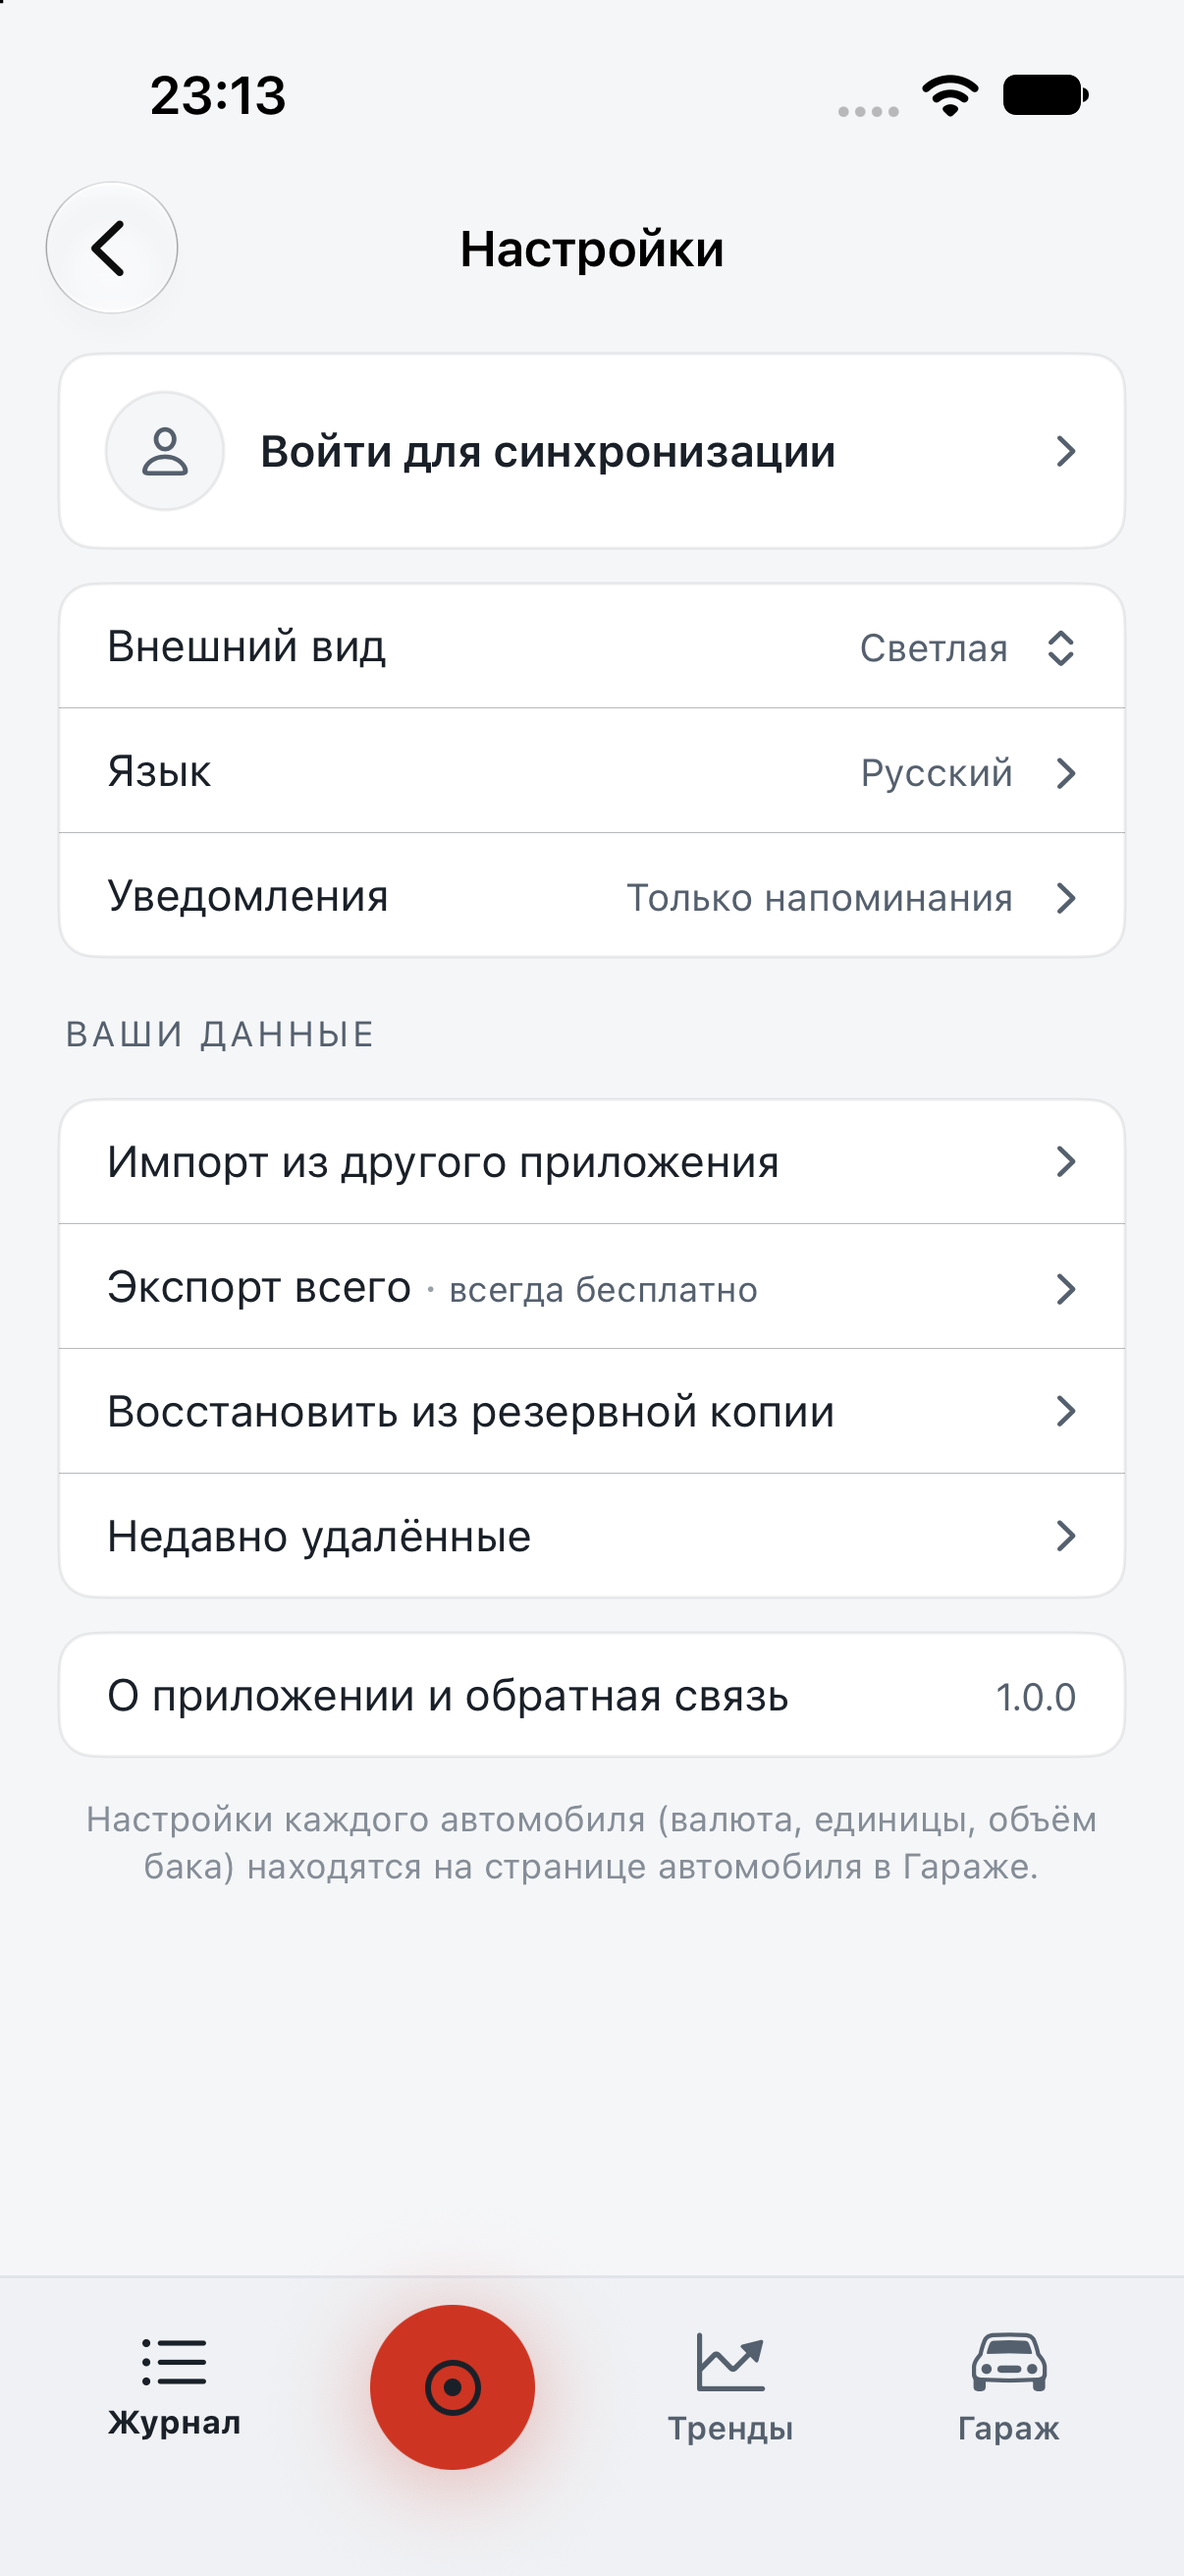
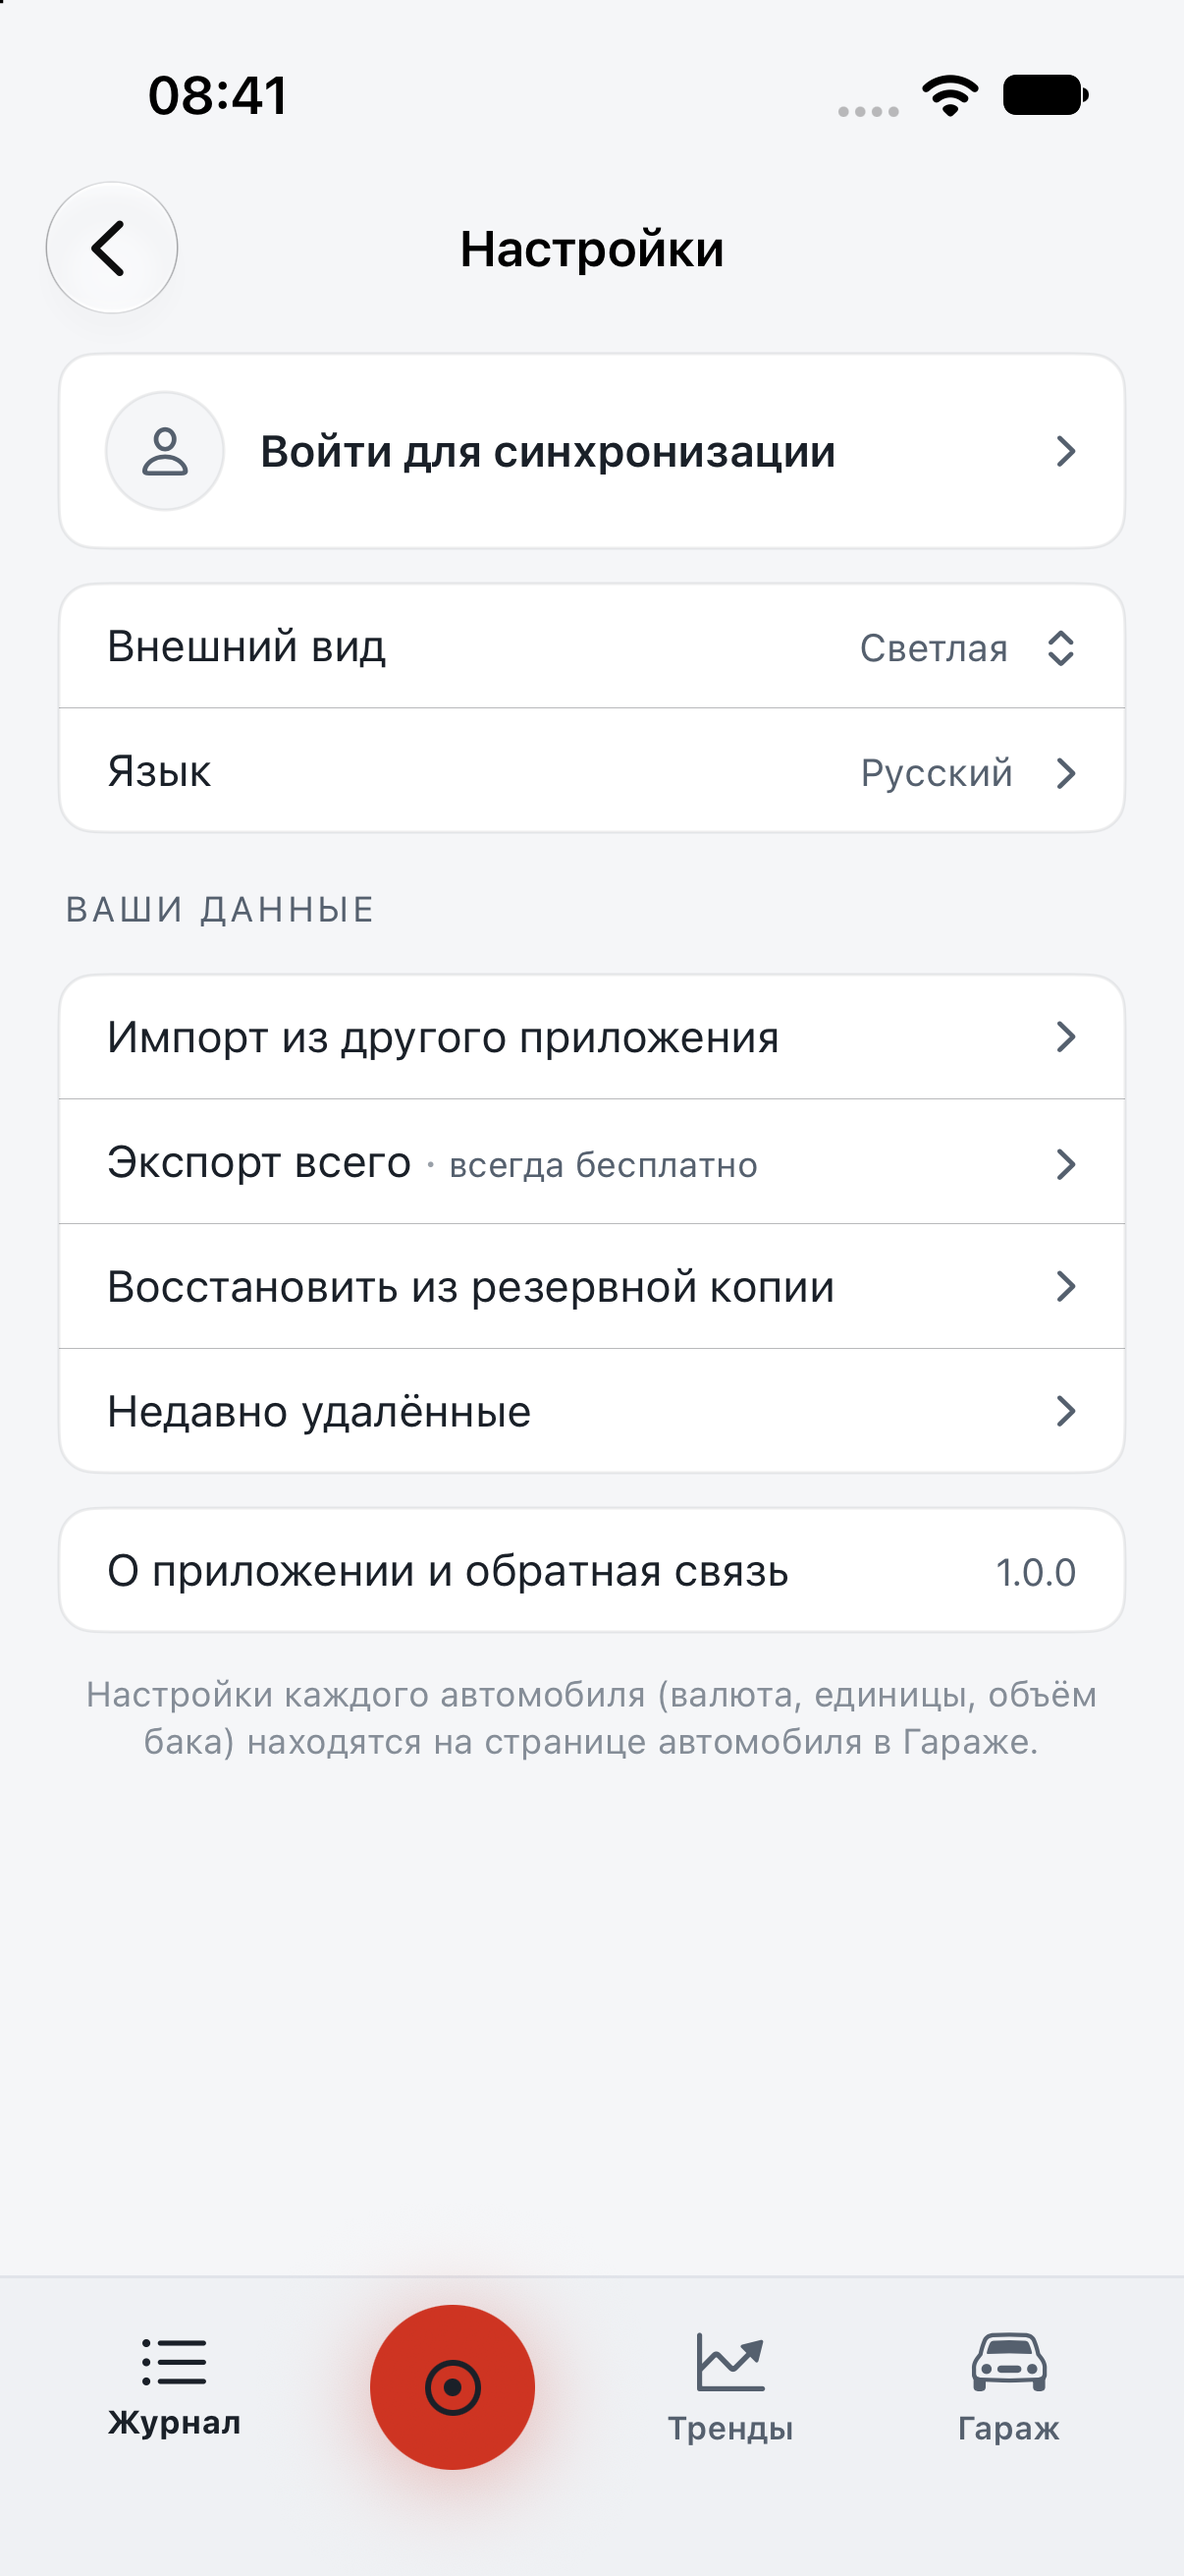
RV.317: the Notifications row is hidden until there are notification settings to open
Product owner, 2026-09-27: "Notifications currently are not implemented, so
worth to hide it". The row said "Reminders only" with a chevron and opened
nothing. The row, its divider and valueRow (its only caller) are removed, so
Settings shows Appearance and Language. DESIGN.md's Settings list says it is
hidden until then.

SettingsUITests 27/27, lint 0; the Settings screenshots re-shot (P4.9b,
RV.70, RV.316) and opened.

diff --git a/ios/App/Sources/Settings/SettingsView.swift b/ios/App/Sources/Settings/SettingsView.swift
@@ -263,15 +263,13 @@ struct SettingsView: View {
         }
     }
 
-    // MARK: - Appearance / Language / Notifications
+    // MARK: - Appearance / Language
 
     private var preferencesCard: some View {
         VStack(spacing: 0) {
             AppearanceRow(selection: $appearance)
             CardDivider()
             languageRow
-            CardDivider()
-            valueRow("Notifications", value: "Reminders only", identifier: "settingsNotificationsRow")
         }
         .formCard()
     }
@@ -293,26 +291,6 @@ struct SettingsView: View {
             return LanguageDisplay.name(code)
         }
         return LanguageDisplay.name(LanguageDisplay.currentCode)
-    }
-
-    /// A static value row (its destination screen is another task). The value
-    /// is drawn like the artboard: inkSoft with a trailing chevron.
-    private func valueRow(_ label: LocalizedStringKey, value: LocalizedStringKey,
-                          identifier: String) -> some View {
-        HStack(alignment: .firstTextBaseline, spacing: 12) {
-            Text(label)
-                .font(.subheadline)
-                .foregroundStyle(Theme.Palette.ink)
-            Spacer(minLength: 8)
-            Text(value)
-                .font(.footnote)
-                .foregroundStyle(Theme.Palette.inkSoft)
-            chevron
-        }
-        .padding(.horizontal, 16)
-        .padding(.vertical, 12)
-        .accessibilityElement(children: .combine)
-        .accessibilityIdentifier(identifier)
     }
 
     // MARK: - Your data

diff --git a/docs/TASKS-DONE.md b/docs/TASKS-DONE.md
@@ -693,6 +693,7 @@ hardware. `RV.1`-`RV.5`, `RV.7`-`RV.9` and `RV.11`-`RV.16` are fixed; `RV.10`, `
 | **[x]** RV.289 | (J4 pump display through the cloud; F2) **The `pump` kind shares the receipt prompt and the model misreads a seven-segment display.** Same photograph as [RV.288]: `LlmPrompts.Document("pump")` names *"a fuel pump display"* and `AllowedFields` hands it the receipt vocabulary (`backend/src/Tankbook.Api/Llm/LlmPrompts.cs:62-84`) and nothing else - no layout hint, so **0025,60** (litres, second line) came back as 0.56 and **0050,02** (amount, top line) as 0.00. The ledger row for this call holds the exact response (`llm_calls`, direct DB read - the ledger has no endpoint by design) - **owner: paste it into this row** before a brief is written. **Evidence found 2026-09-19 (RV.290's check): the app never sends `kind: "pump"`** - the fill-up capture's one `/extract` call site sends `kind: "receipt"` (`ManualFillUpView.swift:450`; the pipeline processes every fill-up as `.receipt`, the pump mode ships off), so the pump prompt this row describes was not the prompt that read the owner's display: the model was told it was reading a fuel receipt. Read the ledger row's request `kind` first; if it says `receipt`, the fix starts at the capture (a dispenser photo must be sent as what it is), not at the prompt. A pump display is a different document from a receipt: leading zeros, comma decimals, the amount ABOVE the volume on most European dispensers, the unit price on its own small display, no station name and no date | **Decide-then-do**: (1) read the ledger response - if the model returned the right digits and the client decoded them wrong, this is a core defect and [RV.288]'s file; (2) otherwise a pump-specific prompt in `LlmPrompts`: name the three displays, their order, the leading zeros and the comma, and tell the model to return `null` for a field it cannot read rather than a guess; (3) the corpus already holds nine Circle K displays (registered 2026-09-13/14) - register this photograph as a tenth with its three asserted cells, and add an **on-demand L5 sweep of the corpus's pump images through the live provider** (the OCR corpus has one, `EXTRACTION.md`; the gateway has none), so the prompt change is measured, not felt. No PII in the photo (a dispenser, kiwa seals, a QR) | L2 `LlmPromptsTests`: the `pump` prompt names the display layout and the null rule; the corpus row-count pin updated; the L5 sweep script exists, is documented in `TESTING.md`, and its first run's hit count is recorded as the ratchet's floor. **Vacuous trap**: testing the prompt string contains the word "pump" || **Done 2026-09-27 (the prompt).** `LlmPrompts.PumpInstruction` names the three numbers and where they sit, the leading-zero padding and the comma decimal, keeps grade price boards out of the price, and forbids deriving a number. The pump kind asks only for `total, volume, unitPrice, currency`. `LlmPromptsTests.PumpPromptNamesTheDisplayLayoutAndAsksForNoReceiptFields`; backend build, format and tests 0. API.md carries the compatible verdict against build 1368. The live-provider sweep and the ledger read need the gateway key and are RV.315. |
 | **[x]** RV.313 | (F1 "Send this scan" report stage; F2 report stage; AD.11) **A diagnostics send dies when the app leaves the foreground, with nothing to say so.** Found 2026-09-27 in case 6JFJ1-4JRYX's log: two `POST /v1/cases` uploads (10.3 MB and 7.1 MB) were in flight when the app went inactive and background. Neither ever got a response line, and the tester sent again. A 7-13 MB case over mobile takes 15-30 s, long enough for a user to switch apps. **What to build**: run the upload in a background `URLSession` upload task, or at least inside `beginBackgroundTask`, so it survives backgrounding. If the upload is cut anyway, the send screen says so on return and offers to resend (hard rule 7), rather than leaving an id-less limbo. RV.312 makes the cut visible in the log. **Routing:** the orchestrator. | An app-target test with a transport that suspends mid-upload: the send reports the failure and offers a retry; on a device, a send survives pressing Home (the tester's check, recorded here) || **Done 2026-09-27.** `DiagnosticsCaseModel.submit` runs the upload on iOS's background grace (`BackgroundGrace`, production `UIKitBackgroundGrace` with `background.task.expired` logged). When the grace runs out, the upload is cancelled and the sheet shows `DebugCaseError.interrupted`: "The send stopped when the app left the screen – send again." (RU included, ERRORS.md row). `DiagnosticsCaseSendTests` (2); **mutation:** dropping the interrupted mapping turns the first red. The app test target now compiles `EXPERIMENTS` in Debug; before, the file compiled to zero tests. Screenshots `RV.313-send-diagnostics-interrupted{,-ru}.png`. |
 | **[x]** RV.316 | no-scenario: a Settings control that did nothing **The Appearance row showed "Dark" with a chevron and was not a control.** Reported by the product owner 2026-09-27: *"I can't switch a theme in the settings app. The control is not actionable"*. The row was `valueRow("Appearance", value: "Dark")`, a placeholder whose destination was "another task" never filed. It also claimed Dark while the app followed the system. | **Done 2026-09-27.** `AppearancePreference` (system / dark / light, `@AppStorage("tankbook.appearance")`, default system) and `AppearanceRow`, a menu on the row. The choice is applied by `.preferredColorScheme` in `AppRootView.body`, not on the `App`: a first version put it on the `App`, where a change re-evaluated the scene, rebuilt `AppRootView`, and ran `AppRates.configure` twice, an assertion crash the UI test caught. `SettingsUITests.testAppearanceRowChangesTheThemeAndRemembersIt` (the menu opens, the choice shows, it survives a relaunch). New strings "Light" / "Светлая" and "Match the system" / "Как в системе". Screenshots `RV.316-settings-appearance-light{,-ru}.png`. **Also fixed:** the Settings UI suite had one deterministic red, `testRejectedRendersRussianCountAndNextStep`, since RV.284. The Russian hint dropped the object ("отредактируйте, чтобы повторить"), where the English says "edit them" and the test expects "отредактируйте их". The catalog is corrected and `RV.284-settings-rejected-ru.png` re-shot; SettingsUITests 27/27. **Not fixed, flagged:** the Notifications row below it is the same kind of placeholder ("Reminders only" with a chevron and no action). |
+| **[x]** RV.317 | no-scenario: a Settings row that opened nothing **The Notifications row said "Reminders only" with a chevron and did nothing.** Flagged under RV.316. Product owner, 2026-09-27: *"Notifications currently are not implemented, so worth to hide it"*. | **Done 2026-09-27.** The row, its divider and `valueRow` (the only caller) are removed from `SettingsView`; Settings shows Appearance and Language. A Notifications row comes back with notification settings to open, as a real control. DESIGN.md's Settings list says it is hidden until then. SettingsUITests and the Settings screenshots re-run. |
 
 ## OB · Observability **[v1.0.x]** - the device can say what it did
 

diff --git a/docs/DESIGN.md b/docs/DESIGN.md
@@ -200,7 +200,7 @@ All three degrade to crossfades under Reduce Motion.
 - **Trends (chosen: tile grid)** is four sparkline stat tiles (consumption, cost/km, monthly spend, price/L), the household EV-vs-petrol comparison card, and insight cards below. Charts follow the same palette; no chart junk, thin `inkSoft` grid, `taillight`/`headlight` series only.
   - **A rate-pending month is a GAP in the spend and cost/km charts (RV.112, decided 2026-09-08).** A month whose rows are still waiting on a rate has no exact total, so the monthly series plot a point ONLY for a `.complete` month - a `.partial` month is not drawn at its known-so-far sum and a `.pending` month is not drawn at zero, because both read as "spend fell", which is a chart that lies (hard rule 2). A month whose known figures span home currencies (`.mixed`, RV.145) is a hole for the same reason - no single value exists to plot. Each unstateable month occupies a slot that renders as a HOLE: the line chart breaks its path there (it never bridges the gap with a straight line) and the bar chart leaves the slot empty without shifting its neighbours. A gap reads as "unknown", which is the truth; the F9 footnote carries the pending phrase. A tile whose current-month figure is `.pending` prints no number at all - it is omitted like any other data-hungry vital, never a `0 €`.
   - **The F9a timeline-neighbourhood chart (RV.117b, [v1.1], decided 2026-09-09).** The card under Edit entry's odometer conflict plots the entry's odometer-bearing neighbours with the offending point off the trend through the valid ones (the Drivvo presentation, `docs/COMPETITORS.md`). Rules, all shared with the sparkline: **no chart junk** (a thin `inkSoft` baseline and two quiet third-rules only), **x is the entries' real dates** (proportional spacing - never invented equal slots), y their readings, **amber is attention** - the offending point is `warn`, the neighbours quiet `inkSoft` context (this is not a taillight/headlight series, so the series-colour rule does not apply here). **Colour is never the only channel** (accessibility floor): the offending point is a larger `warn` diamond with an ink stroke while neighbours are small ink circles, and every point is its own accessibility element ("This entry" vs "Neighbouring entry", each with its reading and day as the value). The card's figures are **DIN with tabular alignment** (hard rule 6); the interval sentences beneath are SF copy - numbers inside a full localised sentence are copy, the same precedent as the F9a quote. The whole card renders only while the entry flags and has a `validRange`; a clean entry or one without an odometer shows no panel and no empty box.
-- **Settings** opens from the gear in the tab-root header on each of the three tab roots (Log, Trends, Garage – never a fifth tab; the tab bar stays task-focused): account/sync status, appearance (a menu: **Match the system** - the default - **Dark** or **Light**, pinning the whole window; per device, RV.316), language, notifications, data (import / export-always-free / recently deleted), Pro, and About & feedback. Per-car settings (currency, units, tank size) live on each car in the Garage, not here.
+- **Settings** opens from the gear in the tab-root header on each of the three tab roots (Log, Trends, Garage – never a fifth tab; the tab bar stays task-focused): account/sync status, appearance (a menu: **Match the system** - the default - **Dark** or **Light**, pinning the whole window; per device, RV.316), language, notifications (hidden until notification settings exist - RV.317), data (import / export-always-free / recently deleted), Pro, and About & feedback. Per-car settings (currency, units, tank size) live on each car in the Garage, not here.
 - Screen sources live in `design/screens/` (.dc.html per screen); web mockups use Archivo (condensed, variable width) as the DIN stand-in – the shipped app uses the real DIN faces bundled with iOS.
 - Cards use 12pt corner radius, 1px hairline border (`ink` at 8%), flat – no shadows in dark theme, faint shadow in light.
 - Spacing grid: 4pt base; screen margins 20pt; card padding 16pt.

diff --git a/docs/TASKS.md b/docs/TASKS.md
@@ -623,6 +623,7 @@ dispatch ledger moved to `docs/TASKS-HISTORY.md`.*
 | RV.289 | (J4 pump display through the cloud; F2) The pump kind shares the receipt prompt and the model m | `[x]` | TASKS-DONE.md · RV · Reviewer bugs (first TestFlight build, 2026-09-02/03) |
 | RV.313 | (F1 "Send this scan" report stage; F2 report stage; AD.11) A diagnostics send dies when the app | `[x]` | TASKS-DONE.md · RV · Reviewer bugs (first TestFlight build, 2026-09-02/03) |
 | RV.316 | no-scenario: a Settings control that did nothing The Appearance row showed "Dark" with a chevro | `[x]` | TASKS-DONE.md · RV · Reviewer bugs (first TestFlight build, 2026-09-02/03) |
+| RV.317 | no-scenario: a Settings row that opened nothing The Notifications row said "Reminders only" wit | `[x]` | TASKS-DONE.md · RV · Reviewer bugs (first TestFlight build, 2026-09-02/03) |
 | PU.49 | ~~The glyph cell is cut at the digit band, so a hanging comma is outside the classifier's crop | `[cut]` | TASKS-DONE.md · PU · Pump reader – a trained seven-segment reader, not OCR (2026-09-18) |
 | PU.1 | ml/pump-reader/ on Python 3.12, 9 tests (the orchestrator added test_profiles_differ_geometry.p | `[x]` | TASKS-DONE.md · PU · Pump reader – a trained seven-segment reader, not OCR (2026-09-18) |
 | PU.2 | 114 fixtures, 456 windows (342 transaction fields + 114 board cells), authored by the orchestra | `[x]` | TASKS-DONE.md · PU · Pump reader – a trained seven-segment reader, not OCR (2026-09-18) |
